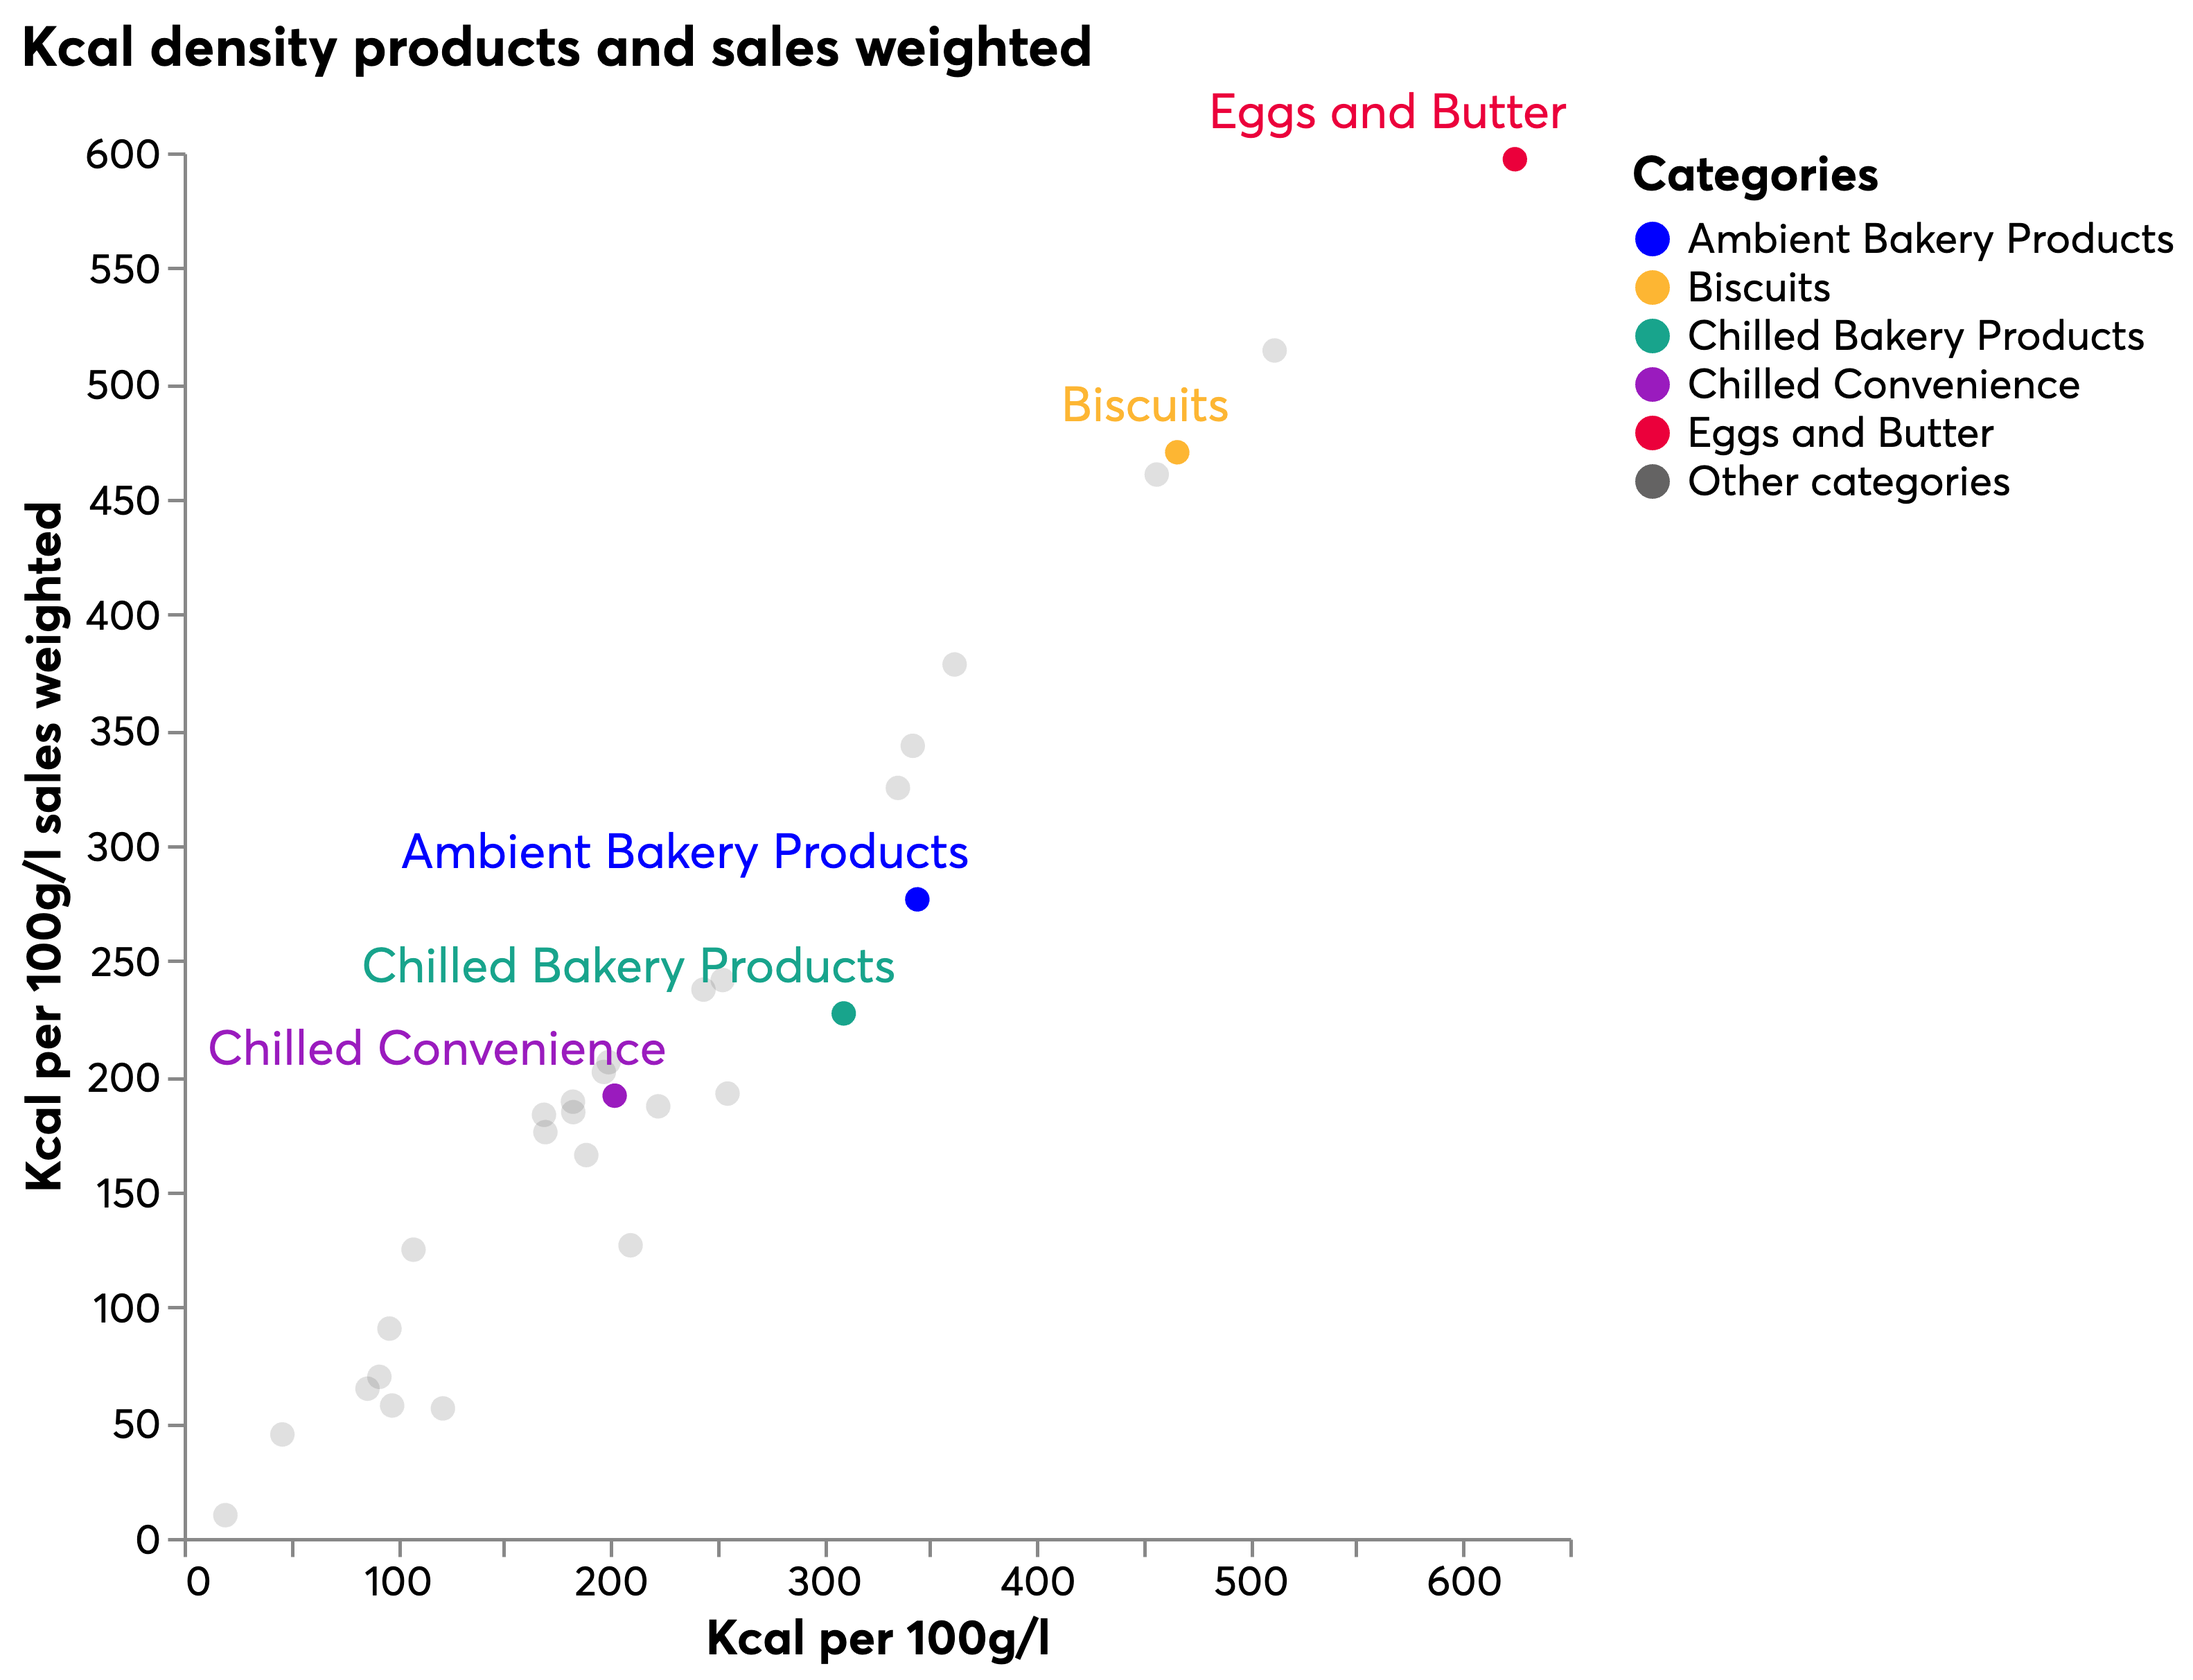
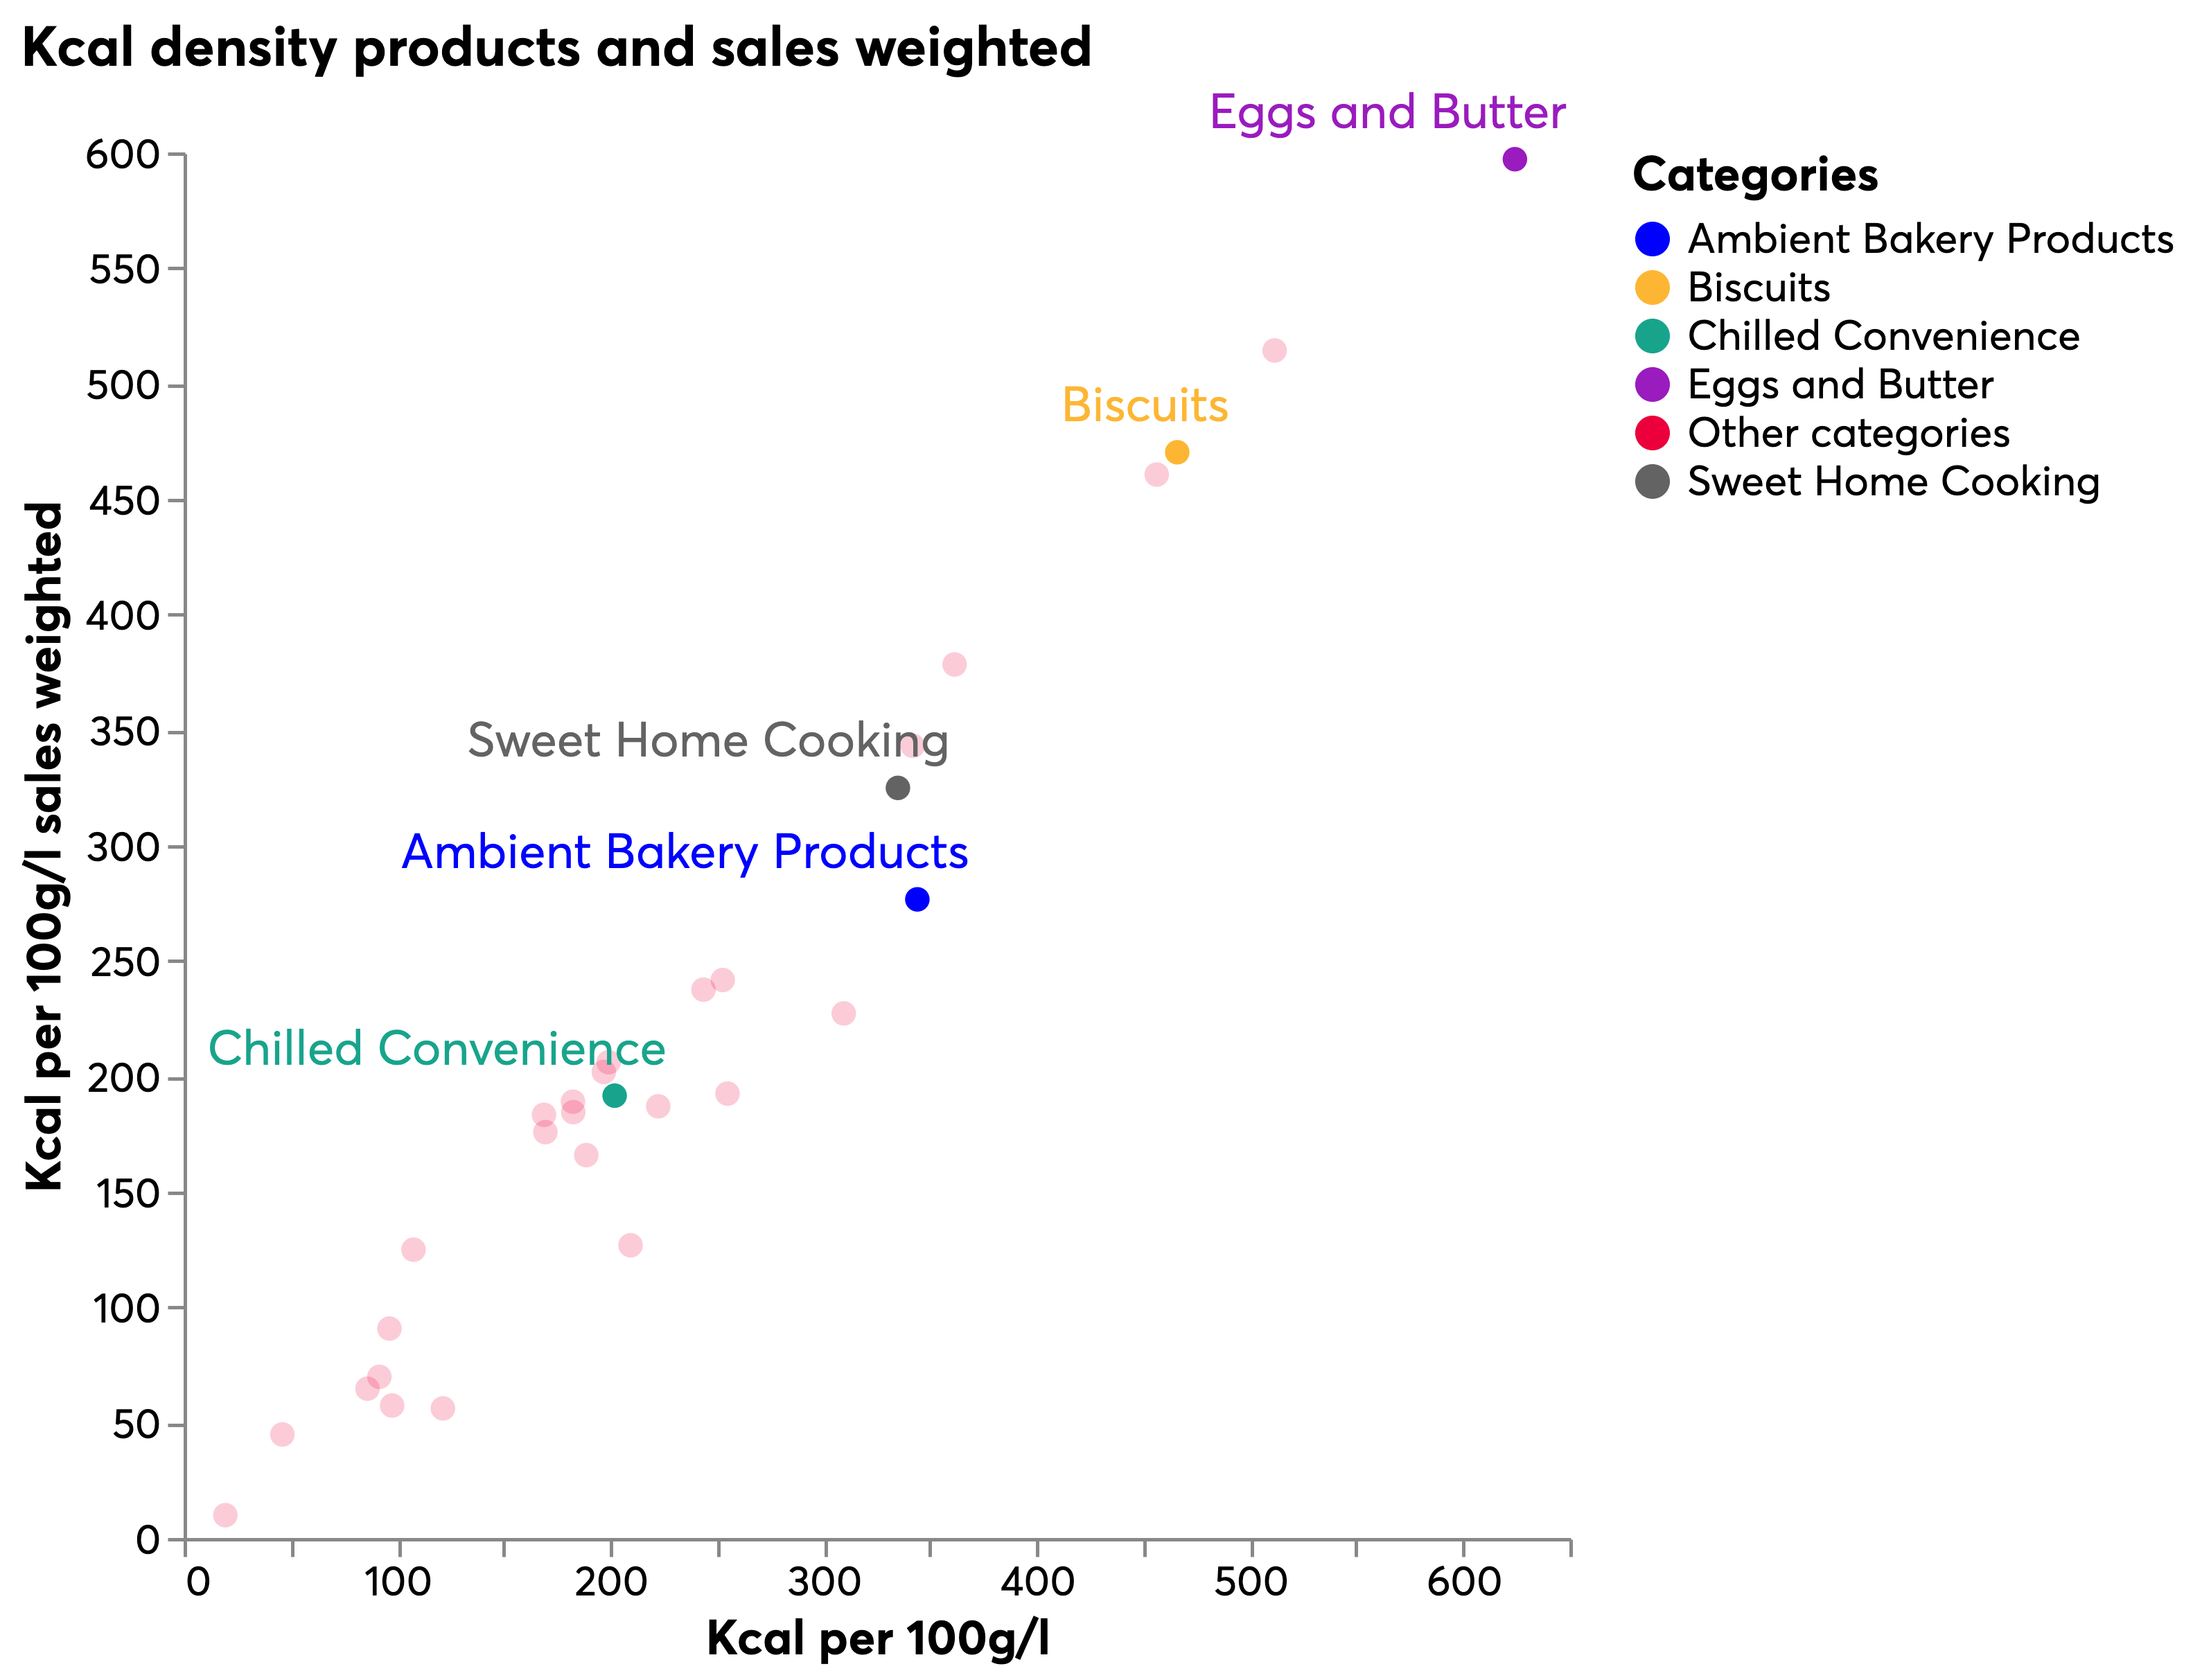
updating visualisations script to produce charts for both methods

diff --git a/ahl_food_reformulation/analysis/decision_table_analysis/visualise_targets.py b/ahl_food_reformulation/analysis/decision_table_analysis/visualise_targets.py
@@ -178,51 +178,11 @@ if __name__ == "__main__":
         f"{PROJECT_DIR}/outputs/data/decision_table/decision_table_"
         + granular_category
         + ".csv"
-    )
+    ).rename({"Unnamed: 0": "rst_4_extended"}, axis=1)
     broad_decision = pd.read_csv(
         f"{PROJECT_DIR}/outputs/data/decision_table/decision_table_"
         + broader_category
         + ".csv"
-    )
-
-    # Set driver for altair
-    driver = google_chrome_driver_setup()
-
-    # Get chosen categories as dataframe
-    with open(f"{PROJECT_DIR}/outputs/reports/detailed_products.json") as f:
-        chosen_cats = pd.DataFrame(json.load(f)).melt(
-            var_name=broader_category, value_name=granular_category
-        )
-
-    logging.info("Create tables")
-    # Unique list of broad cats
-    broad_cats = list(chosen_cats.rst_4_market_sector.drop_duplicates())
-    # Broad plot table
-    broad_decision["Categories"] = np.where(
-        broad_decision["rst_4_market_sector"].isin(broad_cats),
-        broad_decision["rst_4_market_sector"],
-        "Other categories",
-    )
-    # Granular plot table
-    gran_decision.rename({"Unnamed: 0": "rst_4_extended"}, inplace=True, axis=1)
-    gran_decision_subset = chosen_cats.merge(
-        gran_decision[
-            ["rst_4_extended", "percent_high_ed_sales_weighted", "percent_high_ed"]
-        ],
-        on="rst_4_extended",
-        how="left",
-    )
-    gran_decision_subset.columns = [
-        "Market sector",
-        "Categories",
-        "Percent sales high ED",
-        "Percent products high ED",
-    ]
-    gran_decision_subset["Percent sales high ED"] = (
-        gran_decision_subset["Percent sales high ED"] / 100
-    )
-    gran_decision_subset["Percent products high ED"] = (
-        gran_decision_subset["Percent products high ED"] / 100
     )
 
     # Get avergaes for % high energy density
@@ -250,91 +210,141 @@ if __name__ == "__main__":
     mean_ed_sales = ed_cats_sales.high
     mean_ed_prods = ed_cats_num.high
 
-    # Group cats for plot with same values
-    broad_decision_clusters = broad_decision.copy()
-    broad_decision_clusters["Categories"] = np.where(
-        broad_decision_clusters["Categories"].isin(
-            ["Ambient Bakery Products", "Chilled Convenience"]
-        ),
-        "Ambient Bakery Products + Chilled Convenience",
-        broad_decision_clusters["Categories"],
-    )
+    # Unique list of chosen cat groups
+    chosen_cats_list = ["", "_sequential"]
 
-    logging.info("Create plots")
-    # Create plots
-    figure_density_prod_sales = decision_table_scatter(
-        broad_decision,
-        "kcal_100_s",
-        "kcal_100_w",
-        "Kcal per 100g/l",
-        "Kcal per 100g/l sales weighted",
-        NESTA_COLOURS,
-        "Kcal density products and sales weighted",
-        ["right", "line-bottom", 15, -5],
-    )
-    figure_cont_perc_ed = decision_table_scatter(
-        broad_decision,
-        "percent_high_ed",
-        "percent_kcal_contrib_weighted",
-        "Percent high energy density",
-        "Percent kcal contribution",
-        NESTA_COLOURS,
-        "Kcal contribution vs rate of high energy density products",
-        ["left", "line-top", 6, 1],
-    )
-    figure_cluster_share = decision_table_scatter(
-        broad_decision_clusters,
-        "cluster_no_sh",
-        "cluster_low_sh",
-        "clusters impacted share",
-        "clusters low income impacted share",
-        NESTA_COLOURS,
-        "Share of clusters and low income clusters impacted",
-        ["right", "line-bottom", 15, -5],
-    )
-    figure_facet_sales_ed = facet_bar_perc_ed(
-        gran_decision_subset,
-        mean_ed_sales,
-        "Average % of sales",
-        "Percent sales high ED",
-        "Percent of sales",
-        "#18A48C",
-        "Percent of Sales as High Energy Density",
-    )
-    figure_facet_prods_ed = facet_bar_perc_ed(
-        gran_decision_subset,
-        mean_ed_prods,
-        "Average % of products",
-        "Percent products high ED",
-        "Percent of products",
-        "#EB003B",
-        "Percent of Products as High Energy Density",
-    )
+    # Set driver for altair
+    driver = google_chrome_driver_setup()
 
-    logging.info("Save plots")
-    # Save plots
-    save_altair(
-        altair_text_resize(figure_density_prod_sales),
-        "scatter_density_prod_sales",
-        driver=driver,
-    )
-    save_altair(
-        altair_text_resize(figure_cont_perc_ed),
-        "scatter_cont_perc_ed",
-        driver=driver,
-    )
-    save_altair(
-        altair_text_resize(figure_cluster_share),
-        "scatter_clust_share",
-        driver=driver,
-    )
-    save_altair(
-        altair_text_resize(figure_facet_sales_ed),
-        "facet_sales_ed",
-        driver=driver,
-    )
-    save_altair(
-        altair_text_resize(figure_facet_prods_ed),
-        "facet_products_ed",
-        driver=driver,
-    )
+    for chosen_method in chosen_cats_list:
+        # Get chosen categories as dataframe
+        with open(
+            f"{PROJECT_DIR}/outputs/reports/detailed_products" + chosen_method + ".json"
+        ) as f:
+            chosen_cats = pd.DataFrame(json.load(f)).melt(
+                var_name=broader_category, value_name=granular_category
+            )
+
+        logging.info("Create tables for: " + chosen_method)
+        # df for broad_cats
+        broad_decision_subset = broad_decision.copy()
+        gran_decision_sub = gran_decision.copy()
+
+        # Unique list of broad cats
+        broad_cats = list(chosen_cats.rst_4_market_sector.drop_duplicates())
+
+        # Broad plot table
+        broad_decision_subset["Categories"] = np.where(
+            broad_decision_subset["rst_4_market_sector"].isin(broad_cats),
+            broad_decision_subset["rst_4_market_sector"],
+            "Other categories",
+        )
+        # Granular plot table
+        gran_decision_subset = chosen_cats.merge(
+            gran_decision_sub[
+                ["rst_4_extended", "percent_high_ed_sales_weighted", "percent_high_ed"]
+            ],
+            on="rst_4_extended",
+            how="left",
+        )
+        gran_decision_subset.columns = [
+            "Market sector",
+            "Categories",
+            "Percent sales high ED",
+            "Percent products high ED",
+        ]
+        gran_decision_subset["Percent sales high ED"] = (
+            gran_decision_subset["Percent sales high ED"] / 100
+        )
+        gran_decision_subset["Percent products high ED"] = (
+            gran_decision_subset["Percent products high ED"] / 100
+        )
+
+        # Group cats for plot with same values
+        broad_decision_clusters = broad_decision_subset.copy()
+        broad_decision_clusters["Categories"] = np.where(
+            broad_decision_clusters["Categories"].isin(
+                ["Ambient Bakery Products", "Chilled Convenience"]
+            ),
+            "Ambient Bakery Products + Chilled Convenience",
+            broad_decision_clusters["Categories"],
+        )
+
+        logging.info("Create plots")
+        # Create plots
+        figure_density_prod_sales = decision_table_scatter(
+            broad_decision_subset,
+            "kcal_100_s",
+            "kcal_100_w",
+            "Kcal per 100g/l",
+            "Kcal per 100g/l sales weighted",
+            NESTA_COLOURS,
+            "Kcal density products and sales weighted",
+            ["right", "line-bottom", 15, -5],
+        )
+        figure_cont_perc_ed = decision_table_scatter(
+            broad_decision_subset,
+            "percent_high_ed",
+            "percent_kcal_contrib_weighted",
+            "Percent high energy density",
+            "Percent kcal contribution",
+            NESTA_COLOURS,
+            "Kcal contribution vs rate of high energy density products",
+            ["left", "line-top", 6, 1],
+        )
+        figure_cluster_share = decision_table_scatter(
+            broad_decision_clusters,
+            "cluster_no_sh",
+            "cluster_low_sh",
+            "clusters impacted share",
+            "clusters low income impacted share",
+            NESTA_COLOURS,
+            "Share of clusters and low income clusters impacted",
+            ["right", "line-bottom", 15, -5],
+        )
+        figure_facet_sales_ed = facet_bar_perc_ed(
+            gran_decision_subset,
+            mean_ed_sales,
+            "Average % of sales",
+            "Percent sales high ED",
+            "Percent of sales",
+            "#18A48C",
+            "Percent of Sales as High Energy Density",
+        )
+        figure_facet_prods_ed = facet_bar_perc_ed(
+            gran_decision_subset,
+            mean_ed_prods,
+            "Average % of products",
+            "Percent products high ED",
+            "Percent of products",
+            "#EB003B",
+            "Percent of Products as High Energy Density",
+        )
+
+        logging.info("Save plots")
+        # Save plots
+        save_altair(
+            altair_text_resize(figure_density_prod_sales),
+            "scatter_density_prod_sales" + chosen_method,
+            driver=driver,
+        )
+        save_altair(
+            altair_text_resize(figure_cont_perc_ed),
+            "scatter_cont_perc_ed" + chosen_method,
+            driver=driver,
+        )
+        save_altair(
+            altair_text_resize(figure_cluster_share),
+            "scatter_clust_share" + chosen_method,
+            driver=driver,
+        )
+        save_altair(
+            altair_text_resize(figure_facet_sales_ed),
+            "facet_sales_ed" + chosen_method,
+            driver=driver,
+        )
+        save_altair(
+            altair_text_resize(figure_facet_prods_ed),
+            "facet_products_ed" + chosen_method,
+            driver=driver,
+        )
